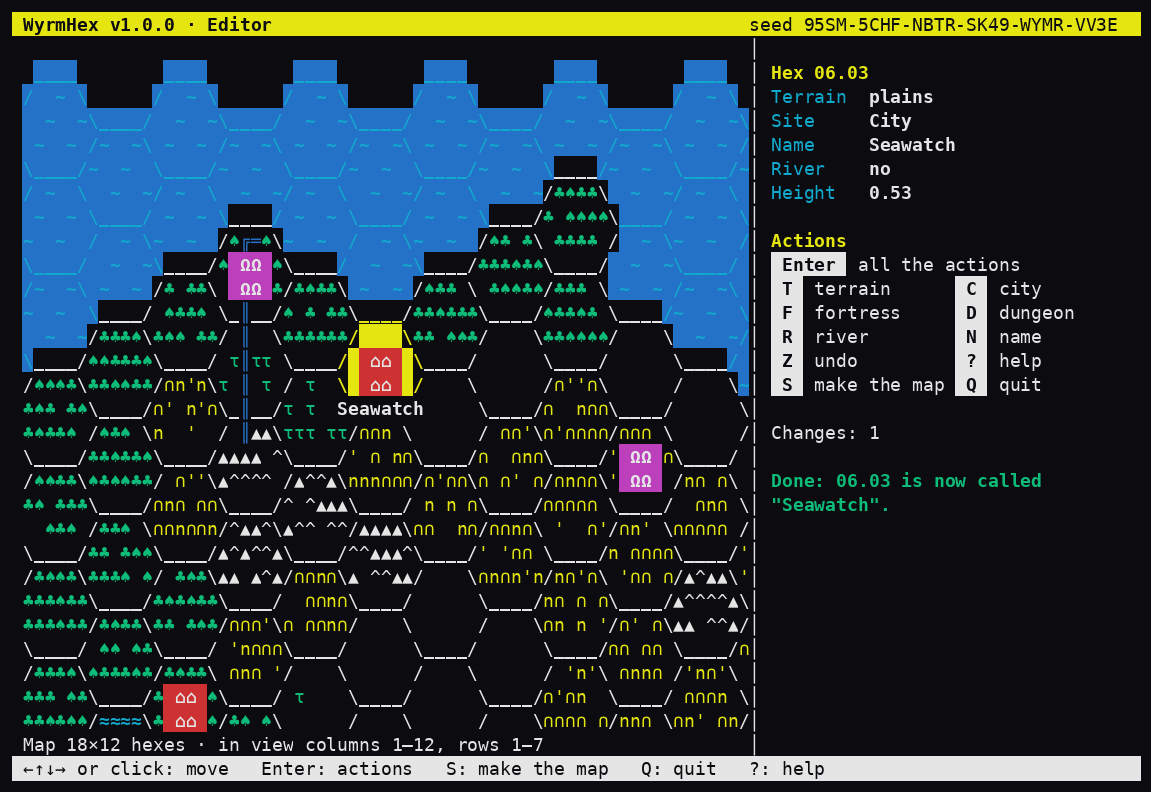
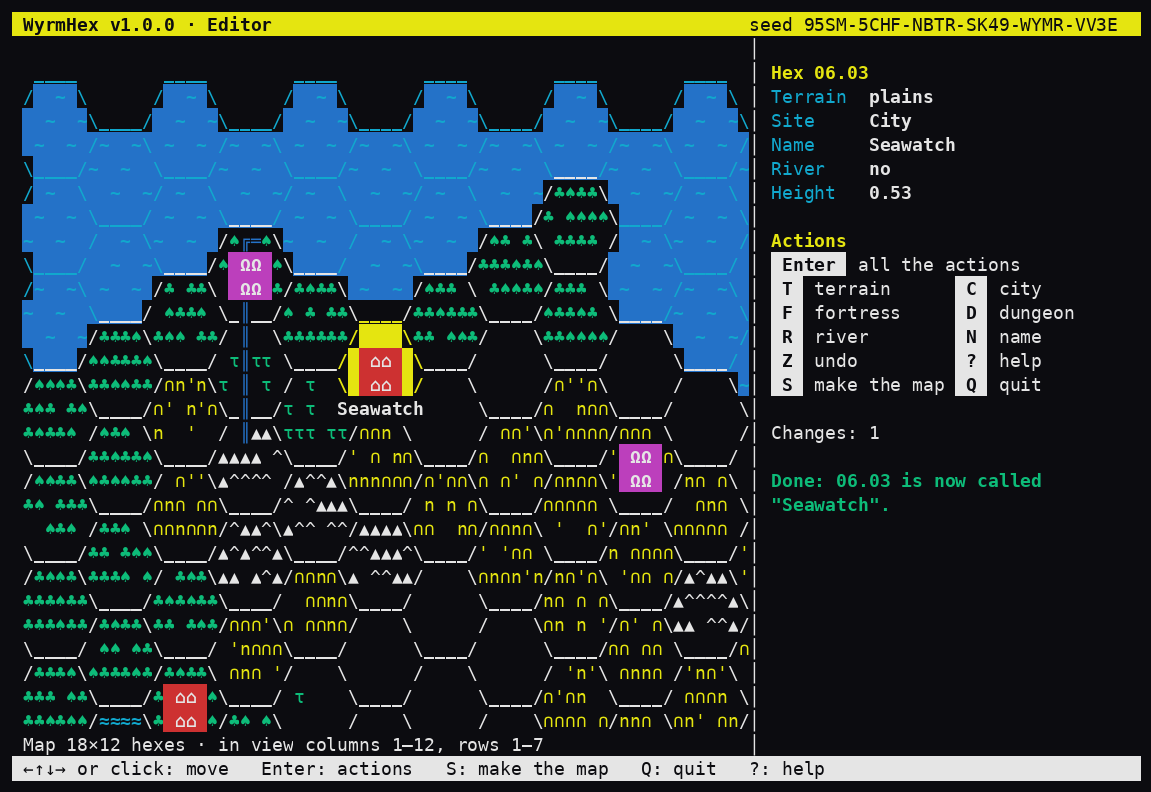
Editor on the map: colours follow the hex outlines
A hex's top row of _ belongs to the hex above (the _ sit at the bottom
of their squares), and its bottom row to the hex itself. The editor
coloured them the other way round: the sea stuck out above the map in
blue teeth, and the yellow cursor stopped one row short of the hex's
bottom side. Now each hex colours its own squares (hex_area): the
inside plus its bottom side; a / or \ square is blue only when there
is sea on both sides of the line. Site names stay white over the cursor.

The PNG maps are not affected. README screenshots taken again.

Claude-Session: https://claude.ai/code/session_014fZnwccAfr169S1niP1Epa

diff --git a/wyrmhex.py b/wyrmhex.py
@@ -3959,6 +3959,16 @@ VE_PLAIN = str.maketrans({"×": "x", "–": "-", "—": "-", "·": "-", "→": "
                           "←": "<", "è": "e", "à": "a", "ì": "i", "ò": "o", "ù": "u", "é": "e"})
 
 
+def hex_area(k):
+    """The letter squares that lie inside a hex on a terminal: its inside
+    squares plus its bottom side, whose _ sit at the bottom of the square.
+    The squares of its top side belong to the hex above, and the / \\ ones
+    are cut in two by the line, so they're coloured only when the hexes on
+    both sides share the colour."""
+    border, inside = hex_template(k)
+    return inside + [(yy, xx) for yy, xx, ch in border if ch == "_" and yy == 2 * k]
+
+
 class VisualEditor:
     """The editor on the map. It changes terrain, rivers, sites and labels in
     place (the same objects edit_map holds), records each change in history
@@ -4210,6 +4220,20 @@ class VisualEditor:
                                random.Random(len(self.grid.hexes)), VE_ASPECT, self.unedited, self.labels,
                                not self.fancy, self.fertile)
         self.heights = edited_heights(self.height, self.unedited[0], self.terrain)
+        # the squares painted blue: the sea hexes' own squares, and the / \
+        # squares between two sea hexes (the line has sea on both sides)
+        border, _ = hex_template(VE_K)
+        area = hex_area(VE_K)
+        self.sea_cells, sides = set(), {}
+        for h in self.grid.hexes:
+            x0, y0 = hex_origin(*h, VE_K)
+            sea = self.terrain[h] == SEA
+            if sea:
+                self.sea_cells.update((x0 + xx, y0 + yy) for yy, xx in area)
+            for yy, xx, ch in border:
+                if ch != "_":
+                    sides.setdefault((x0 + xx, y0 + yy), []).append(sea)
+        self.sea_cells.update(cell for cell, seas in sides.items() if len(seas) > 1 and all(seas))
 
     def scroll(self):
         """Move the view only when the cursor's hex would leave it."""
@@ -4282,12 +4306,19 @@ class VisualEditor:
             for x in range(cols):
                 X, Y = ox + x, oy + y
                 ch, style, tag = canvas.chars[Y][X], canvas.styles[Y][X], canvas.tags[Y][X]
-                if style in "gGH":              # the sea: one blue sheet with a few waves
+                if (X, Y) in self.sea_cells:    # the sea: one blue sheet with a few waves
                     if tag == "label":
                         self.put(ch, 1 + x, 2 + y, S.COLOUR_WHITE, S.A_BOLD, S.COLOUR_BLUE)
-                    else:
-                        ch = ch if style != "g" else ("~" if (X + Y) % 3 == 0 else " ")
-                        self.put(ch, 1 + x, 2 + y, S.COLOUR_CYAN, S.A_NORMAL, S.COLOUR_BLUE)
+                    elif style == "g":
+                        self.put("~" if (X + Y) % 3 == 0 else " ", 1 + x, 2 + y, S.COLOUR_CYAN, S.A_NORMAL,
+                                 S.COLOUR_BLUE)
+                    else:                       # the coast in white, lines inside the sea in cyan
+                        colour = S.COLOUR_WHITE if tag == "border" else S.COLOUR_CYAN
+                        self.put(ch, 1 + x, 2 + y, colour, S.A_NORMAL, S.COLOUR_BLUE)
+                elif style in "gGH":            # the sea's outline at the map edge: no blue outside it
+                    colour = S.COLOUR_WHITE if tag == "label" else S.COLOUR_CYAN
+                    self.put(ch if style != "g" else " ", 1 + x, 2 + y, colour,
+                             S.A_BOLD if tag == "label" else S.A_NORMAL)
                 elif ch != " " and style != "B":
                     colour = S.COLOUR_WHITE if tag == "border" else terrain_fg.get(tag, S.COLOUR_WHITE)
                     bold = style == "b" and tag != "border"
@@ -4298,25 +4329,30 @@ class VisualEditor:
                     X, Y = bx + xx - ox, by + yy - oy
                     if 0 <= X < cols and 0 <= Y < rows:
                         self.put(g if xx in (1, 2) else " ", 1 + X, 2 + Y, box_fg[tag], S.A_BOLD, box_bg[tag])
-        border, inside = hex_template(VE_K)
+        border, _ = hex_template(VE_K)
+        area = hex_area(VE_K)
         for h in marks:                         # the new river's hexes
-            self.highlight(h, inside, (), S.COLOUR_CYAN)
-        self.highlight(self.cursor, inside, border, S.COLOUR_YELLOW)
+            self.highlight(h, area, (), S.COLOUR_CYAN)
+        self.highlight(self.cursor, area, border, S.COLOUR_YELLOW)
 
-    def highlight(self, h, inside, border, colour):
-        """The hex's inside on colour (site boxes stay on top), its outline in colour."""
+    def highlight(self, h, area, border, colour):
+        """The hex's own squares on colour (site boxes stay on top), the
+        rest of its outline in colour."""
         S, canvas = self.S, self.canvas
         view_w, view_h = self.view_size()
         x0, y0 = hex_origin(*h, VE_K)
-        for yy, xx in inside:
+        for yy, xx in area:
             X, Y = x0 + xx - self.ox, y0 + yy - self.oy
-            if 0 <= X < view_w and 0 <= Y < view_h and canvas.styles[y0 + yy][x0 + xx] != "B":
+            # site boxes stay on top, and names stay white: they're often wider than the hex
+            if (0 <= X < view_w and 0 <= Y < view_h and canvas.styles[y0 + yy][x0 + xx] != "B"
+                    and canvas.tags[y0 + yy][x0 + xx] != "label"):
                 ch = canvas.chars[y0 + yy][x0 + xx]
                 ch = " " if canvas.styles[y0 + yy][x0 + xx] == "g" else ch
                 self.put(ch, 1 + X, 2 + Y, S.COLOUR_BLACK, S.A_BOLD, colour)
+        filled = set(area)
         for yy, xx, ch in border:
             X, Y = x0 + xx - self.ox, y0 + yy - self.oy
-            if 0 <= X < view_w and 0 <= Y < view_h:
+            if (yy, xx) not in filled and 0 <= X < view_w and 0 <= Y < view_h:
                 if canvas.tags[y0 + yy][x0 + xx] == "label":    # a name on the border stays as it is
                     self.put(canvas.chars[y0 + yy][x0 + xx], 1 + X, 2 + Y, S.COLOUR_WHITE, S.A_BOLD)
                 else:
